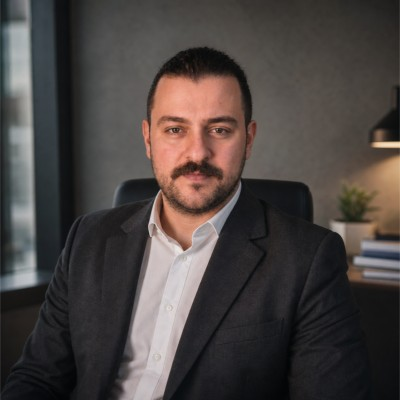
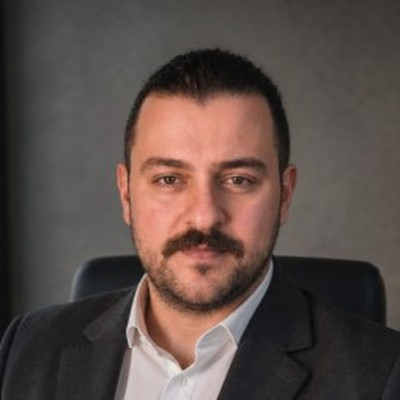
Arın Gülüm: muhakeme.ai vurgusu + fotoğraf yüze yakınlaştırma
Rol/açıklama yapay zeka destekli hukuk girişimi muhakeme.ai'nin kurucusu olarak güncellendi; profil fotoğrafı yüz/foto oranı diğer kartların medyanına (0.49) hizalandı. Önbellek v70.

diff --git a/yanimdakiler.html b/yanimdakiler.html
@@ -8,7 +8,7 @@
   <link rel="icon" type="image/png" sizes="32x32" href="assets/img/favicon-32.png?v=5">
   <link rel="icon" type="image/png" sizes="192x192" href="assets/img/favicon-192.png?v=5">
   <link rel="apple-touch-icon" sizes="180x180" href="assets/img/favicon-192.png?v=5">
-  <link rel="stylesheet" href="style.css?v=69">
+  <link rel="stylesheet" href="style.css?v=70">
   <link rel="stylesheet" href="assets/css/cookie-banner.css?v=2">
   <meta property="og:type" content="website">
   <meta property="og:title" content="Yanımdakiler · Birlikte Yola Çıktıklarım">
@@ -170,10 +170,10 @@
     <img src="assets/img/yanimdaki-mehmet-arin-gulum.jpg" alt="Mehmet Arın Gülüm" class="yanimdaki-foto">
     <div class="yanimdaki-info">
       <h3>Mehmet Arın Gülüm (Av.)</h3>
-      <p class="yanimdaki-rol">Kurucu Ortak ve Arabulucu · Yidrasil Hukuk</p>
+      <p class="yanimdaki-rol">Kurucu · muhakeme.ai (hukukta yapay zeka)</p>
       <p class="yanimdaki-yer">Ankara, Türkiye</p>
       <p class="yanimdaki-egitim">🎓 Lisans: Ufuk Üniv., Hukuk · Yüksek Lisans: Bahçeşehir Üniv., Enerji, Çevre ve Doğal Kaynaklar Hukuku</p>
-      <p class="yanimdaki-aciklama">Aile hukuku ve arabuluculuk başta olmak üzere enerji, bilişim ve iş hukuku ile tahkim alanlarında çalışan avukat.</p>
+      <p class="yanimdaki-aciklama">Hukukta yapay zeka uygulamaları üzerine çalışıyor; bireylerin hukuki destek almasını ve avukatların işlerini verimli yönetmesini sağlayan muhakeme.ai'nin kurucusu. Avukatlık tarafında Yidrasil Hukuk kurucu ortağı; aile hukuku, arabuluculuk ve enerji hukuku alanlarında deneyimli.</p>
       <p class="yanimdaki-baglanti"><a href="https://www.linkedin.com/in/mehmet-ar%C4%B1n-g%C3%BCl%C3%BCm-6636321a5/" target="_blank" rel="noopener">LinkedIn →</a></p>
     </div>
   </div>
